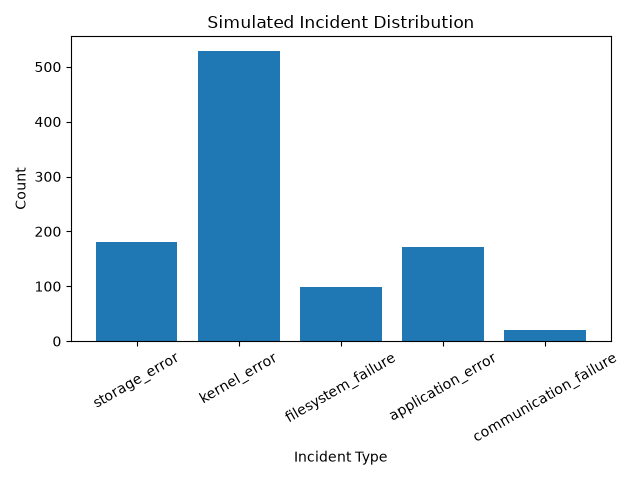
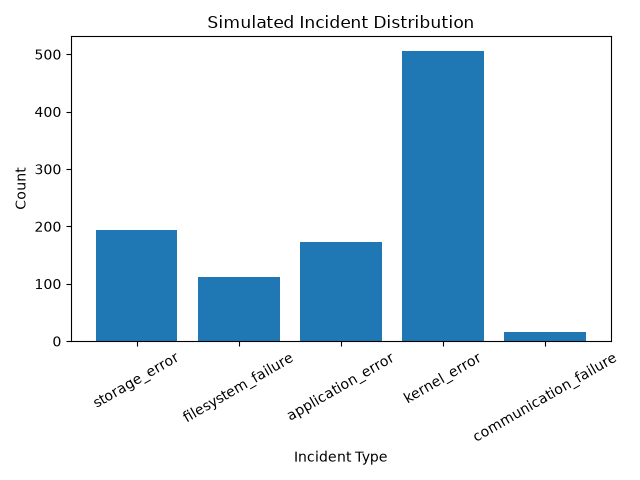
Add gate configuration and Beta evidence

diff --git a/src/evidence.py b/src/evidence.py
@@ -1,0 +1,83 @@
+from dataclasses import dataclass
+from scipy.stats import beta as beta_distribution
+
+
+@dataclass
+class BetaEvidence:
+    """
+    Tracks evidence for one action in one machine class.
+
+    Starts with a Beta(1, 1) prior.
+    """
+
+    alpha: int = 1
+    beta: int = 1
+
+    def record_success(self):
+        """Record a successful remediation."""
+        self.alpha += 1
+
+    def record_failure(self):
+        """Record a failed remediation."""
+        self.beta += 1
+
+    @property
+    def mean(self):
+        """Return the posterior mean."""
+        return self.alpha / (self.alpha + self.beta)
+
+    def lower_bound(self, percentile=0.05):
+        """
+        Return a conservative lower percentile
+        of the Beta posterior.
+        """
+        return beta_distribution.ppf(
+            percentile,
+            self.alpha,
+            self.beta,
+        )
+
+
+class EvidenceStore:
+    """
+    Stores evidence separately for each
+    (action_type, machine_class) combination.
+    """
+
+    def __init__(self):
+        self._evidence = {}
+
+    def get(self, action_type, machine_class):
+        """
+        Get the evidence tracker for an action
+        and machine class.
+
+        New combinations start with Beta(1, 1).
+        """
+        key = (action_type, machine_class)
+
+        if key not in self._evidence:
+            self._evidence[key] = BetaEvidence()
+
+        return self._evidence[key]
+
+    def record_success(self, action_type, machine_class):
+        """Record a successful action."""
+        evidence = self.get(action_type, machine_class)
+        evidence.record_success()
+
+    def record_failure(self, action_type, machine_class):
+        """Record a failed action."""
+        evidence = self.get(action_type, machine_class)
+        evidence.record_failure()
+
+    def get_lower_bound(
+        self,
+        action_type,
+        machine_class,
+        percentile=0.05,
+    ):
+        """Return the conservative evidence score."""
+        evidence = self.get(action_type, machine_class)
+
+        return evidence.lower_bound(percentile)

diff --git a/notes/decisions.md b/notes/decisions.md
@@ -1,0 +1,122 @@
+# Design Decisions
+
+## 1. Dataset Selection
+
+The Blue Gene/L (BGL) public log dataset was selected to understand the distribution of infrastructure alerts.
+
+The dataset provides a large collection of labelled infrastructure log records. It is used to inform the incident distribution used by the simulator.
+
+The project does not use the dataset to train a machine-learning failure detector.
+
+---
+
+## 2. Incident Taxonomy
+
+The simulator uses five broad incident types:
+
+- `kernel_error`
+- `storage_error`
+- `filesystem_failure`
+- `communication_failure`
+- `application_error`
+
+A small number of broad categories was chosen for the initial simulator so that the Week 1 implementation remains simple and understandable.
+
+More detailed incident subtypes can be introduced later if they are required to model different remediation outcomes.
+
+---
+
+## 3. Machine Classes
+
+The simulator currently represents three machine classes:
+
+- `compute_node`
+- `storage_node`
+- `scheduler`
+
+Machine class is included in the incident representation because remediation evidence should eventually depend on the context in which an action is used.
+
+---
+
+## 4. Incident Distribution
+
+The simulator uses different probabilities for the five incident types instead of assigning them equal probabilities.
+
+The probabilities are informed by the alert distribution observed in the BGL analysis.
+
+These probabilities are simulation assumptions and are not treated as exact ground-truth mappings from BGL labels to the simulator's incident categories.
+
+---
+
+## 5. Incident Simulator
+
+A simulator is used because this project does not operate a real infrastructure cluster.
+
+The simulator provides controlled incidents that can later be used to evaluate the trust gate under repeatable conditions.
+
+The simulator is intended to represent realistic incident patterns without attempting to reproduce the complete BGL dataset.
+
+---
+
+## 6. Incident IDs
+
+The simulator assigns sequential incident IDs such as:
+
+```text
+INC-000001
+INC-000002
+INC-000003
+```
+
+---
+
+## 7. Outcome Modeling
+
+The Week 1 simulator does not yet model remediation outcomes.
+
+This is intentional because outcome modeling and evidence updates are part of the later project stages.
+
+The initial simulator therefore focuses on generating incidents and their distribution.
+
+---
+
+## 8. Paper Format
+
+The technical paper is being written in Markdown.
+
+Markdown was selected because the project guide permits either LaTeX or plain Markdown and recommends choosing one format during Week 1 and keeping it throughout the project.
+
+---
+
+## 9. Raw Dataset Storage
+
+The raw BGL dataset is kept outside the Git repository.
+
+The repository contains the analysis script and documented results, while the large raw dataset remains in the local project data directory.
+
+This avoids unnecessarily storing the large raw log file in the project repository.
+
+---
+
+## 10. Initial Remediation Actions
+
+The simulator defines six remediation actions:
+
+1. Restart a stateless service
+2. Requeue a failed job
+3. Reset a device driver
+4. Drain a node and migrate work
+5. Reclaim disk space by deleting temporary files
+6. Escalate to a human
+
+Each action has initial reversibility and blast-radius values that will later be used by the trust gate.
+
+---
+
+## 11. SciPy Dependency for Beta Confidence Bounds
+
+SciPy was added to the project because the Week 2 gate requires a lower percentile of the Beta posterior.
+
+The implementation uses `scipy.stats.beta.ppf()` to calculate this posterior percentile directly. This avoids implementing a numerical inverse-CDF algorithm for the Beta distribution ourselves and keeps the evidence calculation concise and readable.
+
+SciPy is therefore used specifically for the Beta posterior lower confidence-bound calculation in `src/evidence.py`.
